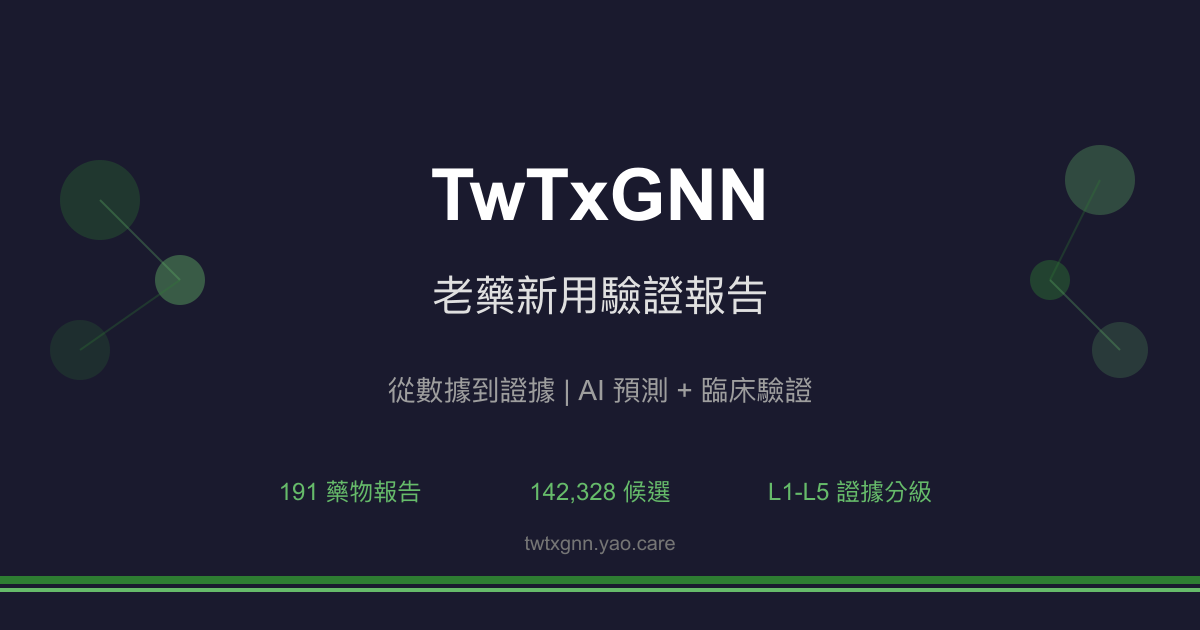
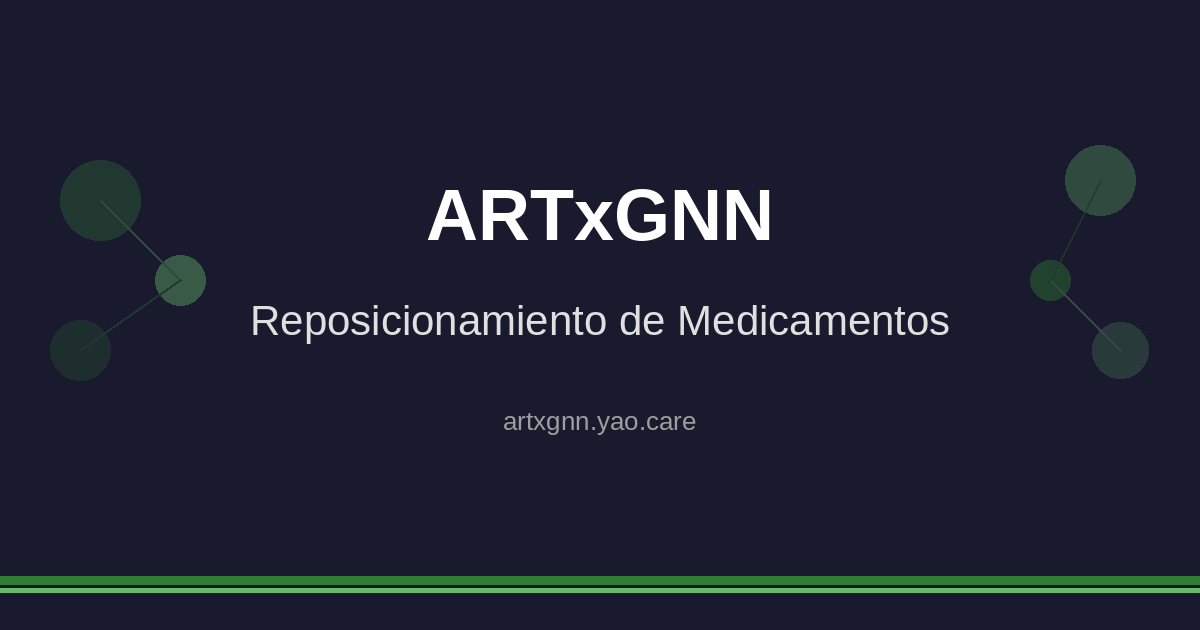
fix: 移除照抄 TwTxGNN 的內容（og 圖、分享按鈕）
- og-default.png／svg：原檔是 TwTxGNN 的圖（TwTxGNN、191 藥物報告、142,328 候選、twtxgnn.yao.care）。
  改由母 repo .claude/gen_og_image.py 產生本站圖：只放站名、網域、本站語言的一行副標（取自 _config.yml title），不放數字。
- assets/images/README.md：設計要求裡的「TwTxGNN」與標語改成本站實際內容，註明產生方式。
- _includes/social-share.html：X hashtag 與 mailto 主旨的 TwTxGNN → ARTxGNN；推文與郵件內文原為中文「老藥新用驗證報告」，按鈕文字原為英文，改成本站語言。（此 include 目前沒有頁面引用，先修正以免日後啟用時帶出 Tw 字樣。）

Claude-Session: https://claude.ai/code/session_013aGXmRzC9hmsD5XtZ9FusM

diff --git a/docs/_includes/social-share.html b/docs/_includes/social-share.html
@@ -1,14 +1,14 @@
-<!-- 學術分享按鈕 -->
+<!-- Share buttons -->
 <div class="social-share" style="margin: 2rem 0; padding: 1.25rem; background: #f8f9fa; border-radius: 8px; border: 1px solid #e0e0e0;">
-  <strong style="display: block; margin-bottom: 0.75rem; color: #333;">Share this report:</strong>
+  <strong style="display: block; margin-bottom: 0.75rem; color: #333;">Compartir este informe:</strong>
   <div style="display: flex; gap: 0.5rem; flex-wrap: wrap;">
     <!-- Twitter/X -->
-    <a href="https://twitter.com/intent/tweet?text={{ page.title | url_encode }}%20%E8%80%81%E8%97%A5%E6%96%B0%E7%94%A8%E9%A9%97%E8%AD%89%E5%A0%B1%E5%91%8A&url={{ page.url | absolute_url | url_encode }}&hashtags=DrugRepurposing,TwTxGNN"
+    <a href="https://twitter.com/intent/tweet?text={{ page.title | url_encode }}%20Informe%20de%20reposicionamiento%20de%20medicamentos&url={{ page.url | absolute_url | url_encode }}&hashtags=DrugRepurposing,ARTxGNN"
        target="_blank" rel="noopener noreferrer"
        style="display: inline-flex; align-items: center; gap: 0.375rem; padding: 0.5rem 1rem; background: #000; color: white; text-decoration: none; border-radius: 6px; font-size: 0.9rem; font-weight: 500; transition: opacity 0.2s;"
        onmouseover="this.style.opacity='0.8'" onmouseout="this.style.opacity='1'">
       <svg width="16" height="16" fill="currentColor" viewBox="0 0 24 24"><path d="M18.244 2.25h3.308l-7.227 8.26 8.502 11.24H16.17l-5.214-6.817L4.99 21.75H1.68l7.73-8.835L1.254 2.25H8.08l4.713 6.231zm-1.161 17.52h1.833L7.084 4.126H5.117z"/></svg>
-      Share on X
+      Compartir en X
     </a>
 
     <!-- LinkedIn -->
@@ -20,16 +20,16 @@
       LinkedIn
     </a>
 
-    <!-- 複製連結 -->
+    <!-- Copy link -->
     <button onclick="copyReportLink(this)"
             style="display: inline-flex; align-items: center; gap: 0.375rem; padding: 0.5rem 1rem; background: #6c757d; color: white; border: none; border-radius: 6px; cursor: pointer; font-size: 0.9rem; font-weight: 500; transition: all 0.2s;"
             onmouseover="this.style.background='#5a6268'" onmouseout="this.style.background='#6c757d'">
       <svg width="16" height="16" fill="currentColor" viewBox="0 0 24 24"><path d="M16 1H4c-1.1 0-2 .9-2 2v14h2V3h12V1zm3 4H8c-1.1 0-2 .9-2 2v14c0 1.1.9 2 2 2h11c1.1 0 2-.9 2-2V7c0-1.1-.9-2-2-2zm0 16H8V7h11v14z"/></svg>
-      <span>Copy link</span>
+      <span>Copiar enlace</span>
     </button>
 
     <!-- Email -->
-    <a href="mailto:?subject={{ page.title | url_encode }}%20-%20TwTxGNN&body=%E6%8E%A8%E8%96%A6%E9%80%99%E4%BB%BD%E8%80%81%E8%97%A5%E6%96%B0%E7%94%A8%E9%A9%97%E8%AD%89%E5%A0%B1%E5%91%8A%EF%BC%9A%0A%0A{{ page.url | absolute_url | url_encode }}"
+    <a href="mailto:?subject={{ page.title | url_encode }}%20-%20ARTxGNN&body=Te%20recomiendo%20este%20informe%20de%20reposicionamiento%20de%20medicamentos%3A%0A%0A{{ page.url | absolute_url | url_encode }}"
        style="display: inline-flex; align-items: center; gap: 0.375rem; padding: 0.5rem 1rem; background: #EA4335; color: white; text-decoration: none; border-radius: 6px; font-size: 0.9rem; font-weight: 500; transition: opacity 0.2s;"
        onmouseover="this.style.opacity='0.8'" onmouseout="this.style.opacity='1'">
       <svg width="16" height="16" fill="currentColor" viewBox="0 0 24 24"><path d="M20 4H4c-1.1 0-1.99.9-1.99 2L2 18c0 1.1.9 2 2 2h16c1.1 0 2-.9 2-2V6c0-1.1-.9-2-2-2zm0 4l-8 5-8-5V6l8 5 8-5v2z"/></svg>
@@ -44,7 +44,7 @@ function copyReportLink(btn) {
   navigator.clipboard.writeText(url).then(() => {
     const span = btn.querySelector('span');
     const originalText = span.textContent;
-    span.textContent = 'Copied!';
+    span.textContent = '¡Copiado!';
     btn.style.background = '#28a745';
     setTimeout(() => {
       span.textContent = originalText;

diff --git a/docs/assets/images/README.md b/docs/assets/images/README.md
@@ -15,11 +15,15 @@ nav_exclude: true
 
 ### 設計要求
 
-1. 包含網站名稱「TwTxGNN」
-2. 包含標語「老藥新用，從數據到證據」
-3. 簡潔、專業風格
-4. 背景純色或簡單圖案
+1. 包含網站名稱「ARTxGNN」與網域
+2. 包含該站語言的一行副標（取自 _config.yml 的 title）
+3. 不放藥物數、候選數等數字（會過期）
+4. 簡潔、專業風格
 5. 適合在社群媒體預覽顯示
+
+### 產生方式
+
+由 TxGNN 母 repo 的 `.claude/gen_og_image.py` 產生（同時輸出 og-default.svg）。
 
 ### 使用位置
 
